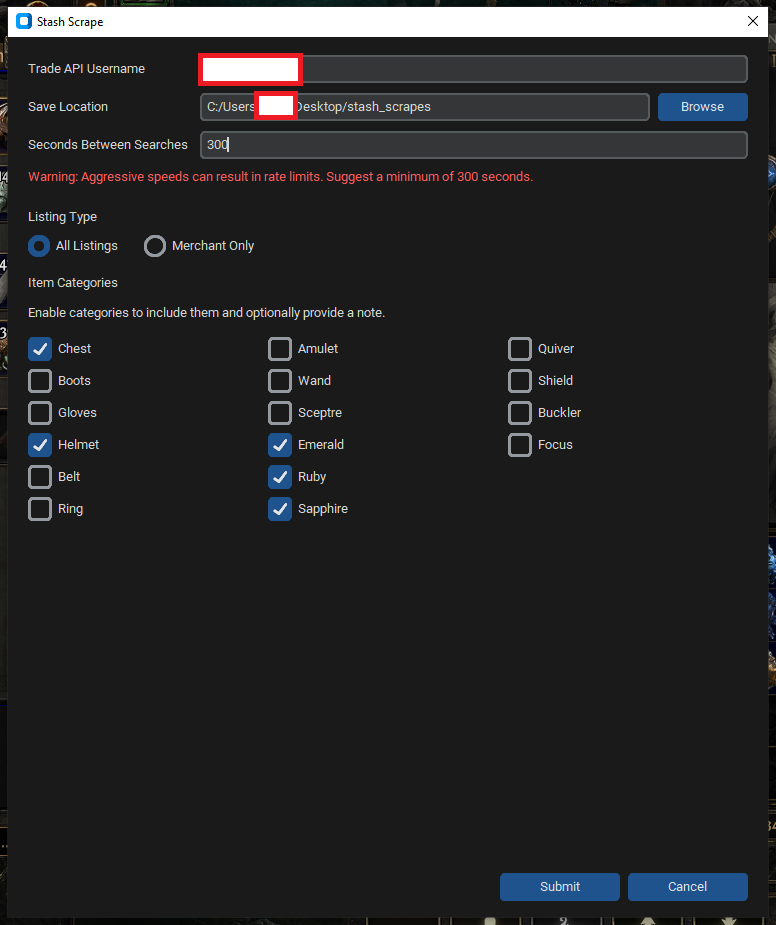
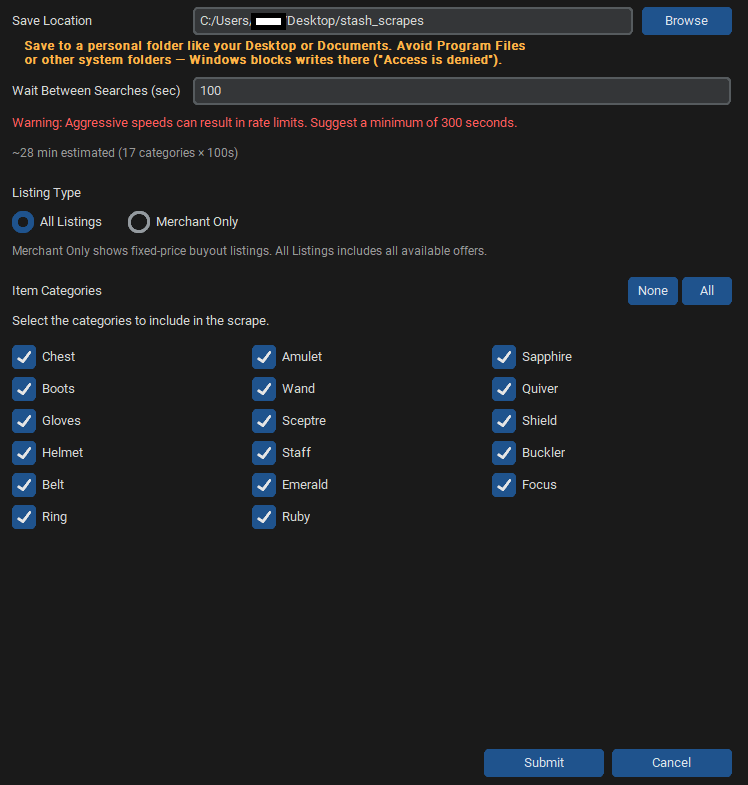
Remove item status note from index html notes section

diff --git a/docs/index.html b/docs/index.html
@@ -473,7 +473,7 @@
         <li>Model #1 visualization shows how an item's prediction compares to all others in same category.</li>
         <li>Careful when using Model #2 (knn) to price items with less than 6-mods, comparing to 6-m items can be tricky. Ask yourself, is a 4-m item more similar to (a) a 4-m item with the same 4-m but very different values, or (b) a 5-m item with 3 of the exact same mods and values, and 2 non-overlapping mods?</li>
         <li><i>Models trained to price <strong>rare</strong> items, not <strong>magic</strong> (forthcoming) or <strong>unique</strong>.</i></li>
-        <li><i>Models available for body armour, helmet, gloves, boots, belt, amulet, ring, jewel, wand, sceptre, quiver, focus, shield, buckler.</i></li>
+        <li><i>Models available for body armour, helmet, gloves, boots, belt, amulet, ring, jewel, wand, sceptre, quiver, focus, shield, buckler, staff.</i></li>
         <li><i>Models unavailable for other main-hands and off-hands (bow, xbow, mace, qstave -- forthcoming).</i></li>
         <li><i>Overlay is optimized for Windowed Fullscreen only.</i></li>
         <li><i>New models trained every few days and posted for download.</i></li>         
@@ -487,7 +487,6 @@
       <div class="section-body">
       <ol>
         <li>The model ignores "mark of the abyssal lord", "allocates passive", "on corruption" mods.
-        <li>The model ignores "corrupted", "fractured", "descrated" item statuses, socket counts (forthcoming).
         <li>The model ignores socketables as they are not considered an underlying modifier.
         <li>Items with quality and socketables have had their modifier values normalized to their base values.
         <li>Armour, evasion, energy shield mods are represented in the base stat values.
@@ -497,43 +496,6 @@
     </details>
 
     
-
-    <details class="section legacy-divider">
-      <summary>
-      <h2>Legacy Content</h2>
-      </summary>
-      <div class="section-body">
-      <p>This section contains notes from the previous version. Some may no longer apply.</p>
-      </div>
-    </details>
-
-    <!-- 2. StashSage Demo Video -->
-    <details class="section" id="demo-video">
-      <summary><h2>Demo Video</h2></summary>
-      <div class="section-body">
-      <div class="video-container">
-        <iframe src="https://www.youtube.com/embed/VmsiqPns4Ac"
-                title="StashSage Demo Video"
-                frameborder="0"
-                allow="accelerometer; autoplay; clipboard-write; encrypted-media; gyroscope; picture-in-picture; web-share"
-                allowfullscreen></iframe>
-      </div>
-      </div>
-    </details>
-
-    <!-- 3. StashSage Install Video -->
-    <details class="section" id="installation-demo">
-      <summary><h2>Install Video</h2></summary>
-      <div class="section-body">
-      <div class="video-container">
-        <iframe src="https://www.youtube.com/embed/qw3zpxPFRKY"
-                title="StashSage Install Video"
-                frameborder="0"
-                allow="accelerometer; autoplay; clipboard-write; encrypted-media; gyroscope; picture-in-picture; web-share"
-                allowfullscreen></iframe>
-      </div>
-      </div>
-    </details>
 
     <!-- ===== Legal / Policies (single-page anchors for TikTok form) ===== -->
     <details class="section legal" id="policies">
